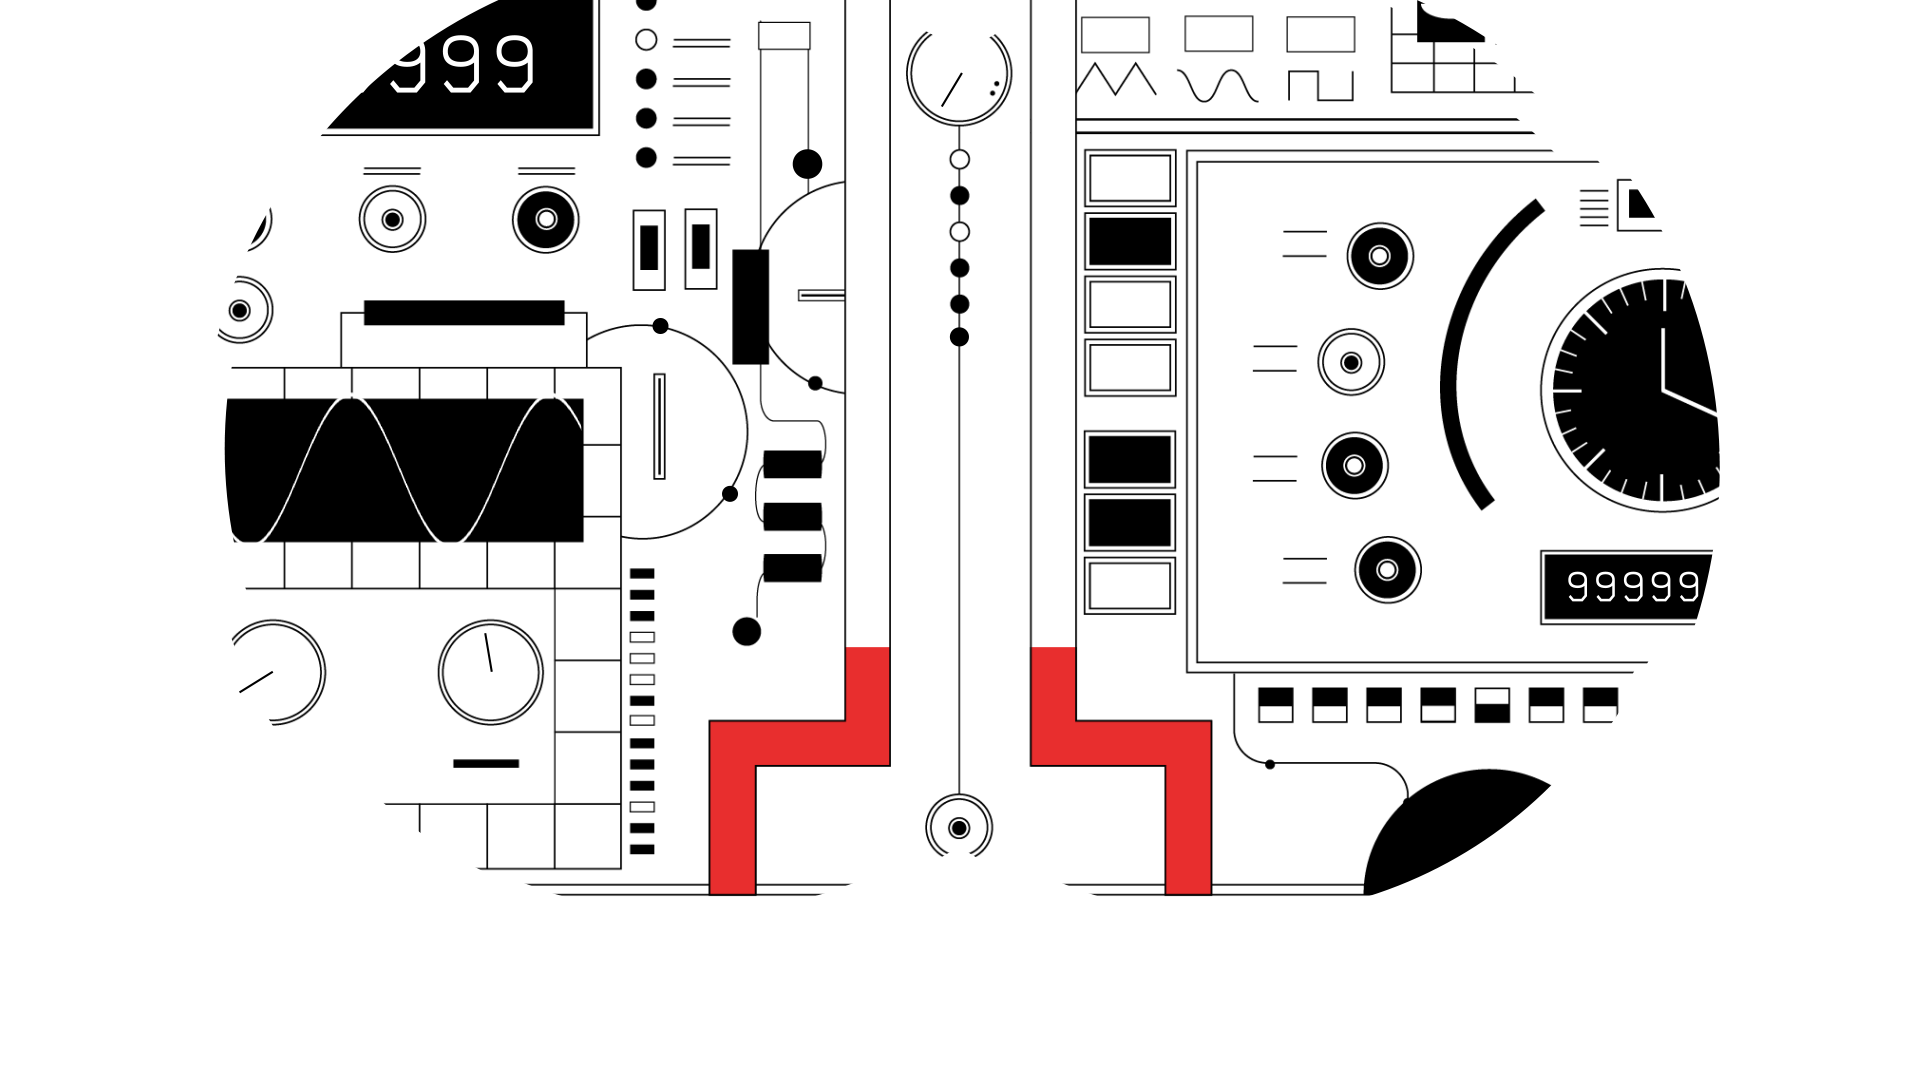
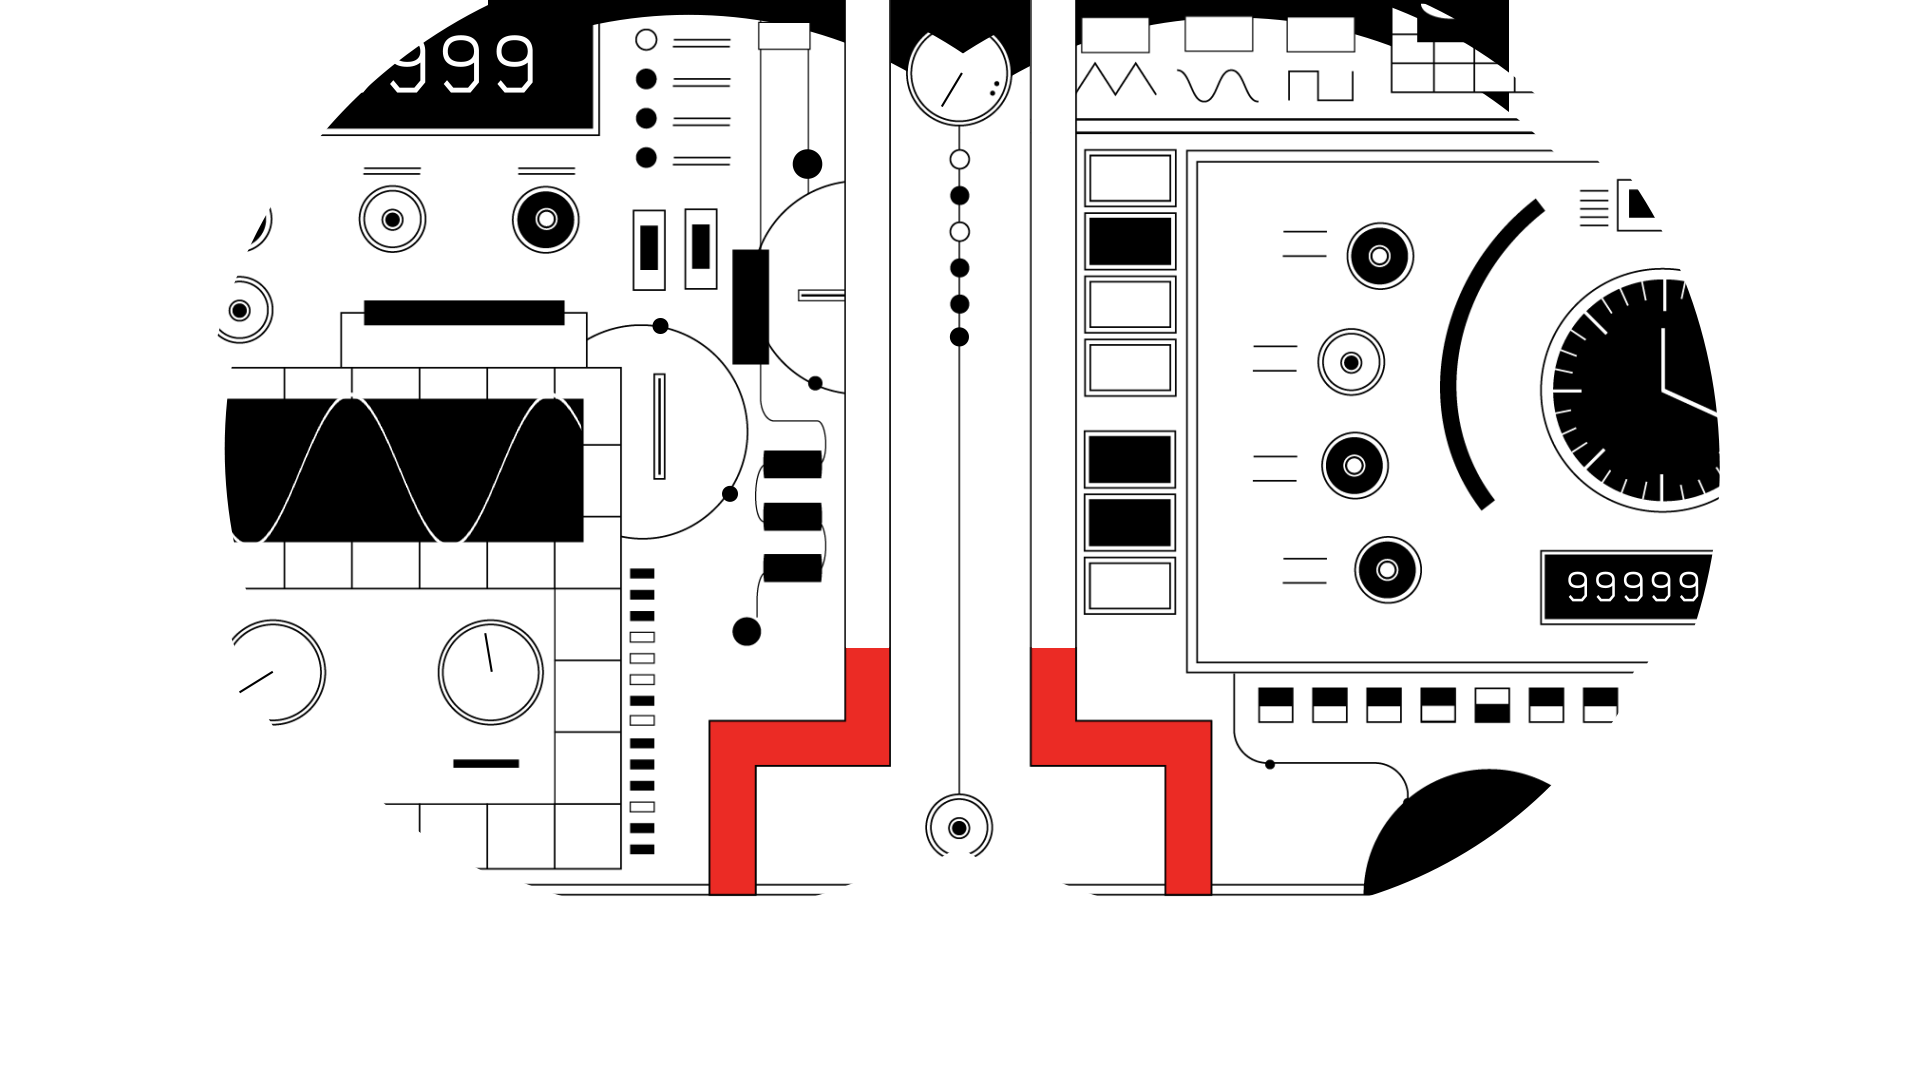
:sparkles: Generator slide feature

Changed region(s): [[0.3125, 0.0, 0.8125, 0.0611]]

diff --git a/client/src/desktop/components/scenes/SceneGenerator/SceneGenerator.js b/client/src/desktop/components/scenes/SceneGenerator/SceneGenerator.js
@@ -17,48 +17,97 @@ export default class SceneGenerator {
   updateStore(newStore) {
     this.currentPlayer1SliderValue = this.store.users.find(user => user.id === "player1").sliderValue
     this.newPlayer1SliderValue = newStore.users.find(user => user.id === "player1").sliderValue
-    console.log(this.newPlayer1SliderValue)
+
     if (this.newPlayer1SliderValue) {
       let value = parseInt(this.newPlayer1SliderValue, 10)
-      let mapValue  = map(value, 0, 100, 0, 469)
+      let mapValue  = map(value, 0, 100, 0, window.innerHeight * .6)
       TweenMax.to(this.fillbox, .1, {height:mapValue})
     }
+
+    this.currentPlayer2SliderValue = this.store.users.find(user => user.id === "player2").sliderValue
+    this.newPlayer2SliderValue = newStore.users.find(user => user.id === "player2").sliderValue
+
+    if (this.newPlayer2SliderValue) {
+      let value2 = parseInt(this.newPlayer2SliderValue, 10)
+      let mapValue2  = map(value2, 0, 100, 0, window.innerHeight * .6)
+      console.log(mapValue2)
+      TweenMax.to(this.fillbox2, .1, {height:mapValue2})
+    }
     //update store
-    console.log("updateStore", newStore)
     this.store = newStore
   }
 
   init() {
     console.log("scene generator init")
 
-    let width = window.innerWidth
-    let height = window.innerHeight
+    this.width = window.innerWidth
+    this.height = window.innerHeight
     this.container = new PIXI.Container()
     let generatorImg = AssetsManager.get('generator')
     let baseTexture = new PIXI.BaseTexture(generatorImg)
     let texture = new PIXI.Texture(baseTexture)
     this.generatorSprite = new PIXI.Sprite(texture)
-    this.generatorSprite.x = width / 2 - (this.generatorSprite.width / 2)
-    this.generatorSprite.y = height / 2 - (this.generatorSprite.height / 2)
+    
+    this.spriteSize = {
+      width:this.generatorSprite.width,
+      height: this.generatorSprite.height
+    }
+
     this.initFillBox()
+    this.initFillBox2()
+    this.initGenerator()
     this.addToScene()
-    this.initGUI()
-    this.brt = new PIXI.BaseRenderTexture(width, height, PIXI.SCALE_MODES.LINEAR, 1)
+    // this.initGUI()
+    this.brt = new PIXI.BaseRenderTexture(this.width, this.height, PIXI.SCALE_MODES.LINEAR, 1)
     this.rt = new PIXI.RenderTexture(this.brt)
     this.sprite = new PIXI.Sprite(this.rt)
+  }
+
+  initGenerator() {
+    this.generatorSprite.y = this.generatorSprite.height / 2
+    this.setFullScreen(this.generatorSprite, this.generatorSprite.width, this.generatorSprite.height)
+    this.generatorSprite.x = this.width / 2 - (this.generatorSprite.width / 2)
+    }
+
+  setFullScreen = (bg, w, h) => {
+    let width = window.innerWidth * .78
+    let height = window.innerHeight
+
+    let imageRatio = w / h
+    let containerRatio = width / height
+    if(containerRatio > imageRatio) {
+        bg.height = bg.height / (bg.width / width)
+        bg.width = width
+        bg.position.x = 0
+        bg.position.y = (height - bg.height) / 2
+    } else {
+        bg.width = bg.width / (bg.height / height)
+        bg.height = height
+        bg.position.y = 0
+        bg.position.x = (width - bg.width) / 2
+    }
   }
 
   initFillBox() {
     this.fillbox = new PIXI.Graphics()
     this.fillbox.beginFill(0xE82E2E)
-    this.fillbox.drawRect(0, 0, 43.8, 469)
+    this.fillbox.drawRect(0, 0, 140, 400)
     this.fillbox.endFill()
-    this.fillbox.x = 869
-    this.fillbox.y = 200
-
-    this.fillbox.scale.y = -1
+    this.fillbox.x = (window.innerWidth / 2) - 140
+    this.fillbox.y = window.innerHeight * .6
     this.fillbox.height = 0
+    this.fillbox.pivot.y = 400
+  }
 
+  initFillBox2() {
+    this.fillbox2 = new PIXI.Graphics()
+    this.fillbox2.beginFill(0xE82E2E)
+    this.fillbox2.drawRect(0, 0, 140, 400)
+    this.fillbox2.endFill()
+    this.fillbox2.x = (window.innerWidth / 2) 
+    this.fillbox2.y = window.innerHeight * .6
+    this.fillbox2.height = 0
+    this.fillbox2.pivot.y = 400
   }
 
   initGUI() {
@@ -66,31 +115,32 @@ export default class SceneGenerator {
     var customContainer = document.querySelector('.desktop-app')
     customContainer.appendChild(this.gui.domElement)
     const fillBoxPos = {
-      x: this.fillbox.x,
-      y: this.fillbox.y,
-      width: this.fillbox.width,
-      height: this.fillbox.height
+      x: this.fillbox2.x,
+      y: this.fillbox2.y,
+      width: this.fillbox2.width,
+      height: this.fillbox2.height
     }
 
     let fillBoxChanger = () => {
-        this.fillbox.x = fillBoxPos.x
-        this.fillbox.y = fillBoxPos.y
-        this.fillbox.width = fillBoxPos.width
-        this.fillbox.height = fillBoxPos.height
+        this.fillbox2.x = fillBoxPos.x
+        this.fillbox2.y = fillBoxPos.y
+        this.fillbox2.width = fillBoxPos.width
+        this.fillbox2.height = fillBoxPos.height
     }
 
     let f1 = this.gui.addFolder('Fill Box')
     f1.add(fillBoxPos, 'x', 0, 1920, 0.1).onChange(fillBoxChanger)
     f1.add(fillBoxPos, 'y', 0, 900, 0.1).onChange(fillBoxChanger)
     f1.add(fillBoxPos, 'width', 0, 200, 0.1).onChange(fillBoxChanger)
-    f1.add(fillBoxPos, 'height', 0, 200, 0.1).onChange(fillBoxChanger)
+    f1.add(fillBoxPos, 'height', 0, 2000, 0.1).onChange(fillBoxChanger)
 
     this.gui.close()
   }
 
   addToScene() {
-    this.container.addChild(this.generatorSprite)
     this.container.addChild(this.fillbox)
+    this.container.addChild(this.fillbox2)
+    this.container.addChild(this.generatorSprite)
   }
 
   update() {

diff --git a/client/src/desktop/components/scenes/SceneFlashlight/SceneFlashlight.js b/client/src/desktop/components/scenes/SceneFlashlight/SceneFlashlight.js
@@ -65,7 +65,8 @@ export default class SceneFlashlight {
     this.initBackgroundUser2()
     this.detectionBox()
     this.fillBox()
-    this.player2Collision = true
+    // this.player2Collision = true
+    this.player1Collision = true
     this.isDiscover = false
     this.addToScene()
     this.brt = new PIXI.BaseRenderTexture(this.sceneWH.width, this.sceneWH.height, PIXI.SCALE_MODES.LINEAR, 1)
@@ -78,9 +79,9 @@ export default class SceneFlashlight {
   switchOnLight() {
     this.canMove = false
     TweenMax.to(this.spriteFlashOff, .3, {alpha:0})
-    TweenMax.to(this.spriteBureau1, 1.2, {alpha:1, ease:RoughEase.ease.config({points:6, strength:5, clamp:true})})
-    TweenMax.to(this.spriteBureau2, 1.2, {alpha:1, ease:RoughEase.ease.config({points:6, strength:5, clamp:true})})
-    TweenMax.to(this.spriteBureau3, 1.2, {alpha:1, ease:RoughEase.ease.config({points:6, strength:5, clamp:true}), onComplete: () => {
+    TweenMax.to(this.spriteBureau1, .6, {alpha:1, ease:RoughEase.ease.config({points:6, strength:5, clamp:true})})
+    TweenMax.to(this.spriteBureau2, .6, {alpha:1, ease:RoughEase.ease.config({points:6, strength:5, clamp:true})})
+    TweenMax.to(this.spriteBureau3, .6, {alpha:1, ease:RoughEase.ease.config({points:6, strength:5, clamp:true}), onComplete: () => {
       this.canMove = true
     }})
     this.isOff = false
@@ -97,9 +98,9 @@ export default class SceneFlashlight {
 
   switchOnLight2() {
     TweenMax.to(this.spriteFlashOff_2, .3, {alpha:0})
-    TweenMax.to(this.spriteBureau1_2, 1.2, {alpha:1, ease:RoughEase.ease.config({points:6, strength:5, clamp:true})})
-    TweenMax.to(this.spriteBureau2_2, 1.2, {alpha:1, ease:RoughEase.ease.config({points:6, strength:5, clamp:true})})
-    TweenMax.to(this.spriteBureau3_2, 1.2, {alpha:1, ease:RoughEase.ease.config({points:6, strength:5, clamp:true}), onComplete: () => {
+    TweenMax.to(this.spriteBureau1_2, .6, {alpha:1, ease:RoughEase.ease.config({points:6, strength:5, clamp:true})})
+    TweenMax.to(this.spriteBureau2_2, .6, {alpha:1, ease:RoughEase.ease.config({points:6, strength:5, clamp:true})})
+    TweenMax.to(this.spriteBureau3_2, .6, {alpha:1, ease:RoughEase.ease.config({points:6, strength:5, clamp:true}), onComplete: () => {
       console.log('finito 2')
       this.canMove2 = true
     }})
@@ -443,30 +444,30 @@ export default class SceneFlashlight {
   }
 
   initGUI() {
-    this.gui = new dat.GUI({ autoPlace: false })
-    var customContainer = document.querySelector('.desktop-app')
-    customContainer.appendChild(this.gui.domElement)
-    const fillBoxPos = {
-      x: this.fillbox.x,
-      y: this.fillbox.y,
-      width: this.fillbox.width,
-      height: this.fillbox.height
-    }
+    // this.gui = new dat.GUI({ autoPlace: false })
+    // var customContainer = document.querySelector('.desktop-app')
+    // customContainer.appendChild(this.gui.domElement)
+    // const fillBoxPos = {
+    //   x: this.fillbox.x,
+    //   y: this.fillbox.y,
+    //   width: this.fillbox.width,
+    //   height: this.fillbox.height
+    // }
 
-    let fillBoxChanger = () => {
-        this.fillbox.x = fillBoxPos.x
-        this.fillbox.y = fillBoxPos.y
-        this.fillbox.width = fillBoxPos.width
-        this.fillbox.height = fillBoxPos.height
-    }
+    // let fillBoxChanger = () => {
+    //     this.fillbox.x = fillBoxPos.x
+    //     this.fillbox.y = fillBoxPos.y
+    //     this.fillbox.width = fillBoxPos.width
+    //     this.fillbox.height = fillBoxPos.height
+    // }
 
-    let f1 = this.gui.addFolder('Fill Box')
-    f1.add(fillBoxPos, 'x', 0, 1920, 0.1).onChange(fillBoxChanger)
-    f1.add(fillBoxPos, 'y', 0, 900, 0.1).onChange(fillBoxChanger)
-    f1.add(fillBoxPos, 'width', 0, 200, 0.1).onChange(fillBoxChanger)
-    f1.add(fillBoxPos, 'height', 0, 200, 0.1).onChange(fillBoxChanger)
+    // let f1 = this.gui.addFolder('Fill Box')
+    // f1.add(fillBoxPos, 'x', 0, 1920, 0.1).onChange(fillBoxChanger)
+    // f1.add(fillBoxPos, 'y', 0, 900, 0.1).onChange(fillBoxChanger)
+    // f1.add(fillBoxPos, 'width', 0, 200, 0.1).onChange(fillBoxChanger)
+    // f1.add(fillBoxPos, 'height', 0, 200, 0.1).onChange(fillBoxChanger)
 
-    this.gui.close()
+    // this.gui.close()
   }
   update() {
     // console.log("update scene flashlight");

diff --git a/client/src/desktop/components/scenes/SceneGenerator/transition.js b/client/src/desktop/components/scenes/SceneGenerator/transition.js
@@ -3,19 +3,27 @@ import {TweenMax, TimelineMax, Power2} from 'gsap'
 
 export const onEnter = (instance) => (
   new Promise(resolve => {
-    const timeline = new TimelineMax({
+    
+    const generator = instance.generatorSprite
+    generator.alpha = 0
+
+    const tl = new TimelineMax({
       onComplete: () => {
-        console.log("onComplete : scene2 enter");
-        resolve();
+        console.log("onComplete : scene generator enter")
+        resolve()
       }
     })
-    timeline.fromTo(instance.sprite, 3, {
+    tl.fromTo(instance.sprite, 1, {
       alpha: 0,
     },{
       delay: 1,
       alpha: 1,
       ease: Power2.easeInOut
     })
+    tl.to(generator, 0, {alpha:0}, "+=0.2")
+    tl.to(generator, 0, {alpha:1}, "+=0.2")
+    tl.to(generator, 0, {alpha:0}, "+=0.2")
+    tl.to(generator, 0, {alpha:1}, "+=0.2")
   })
 )
 

diff --git a/client/src/mobile/components/steps/IntroStep/IntroStep.js b/client/src/mobile/components/steps/IntroStep/IntroStep.js
@@ -15,8 +15,6 @@ import './IntroStep.scss'
 //asset
 import {AssetsManager} from "./../../../../managers"
 import {assetsToLoad} from "../../../assets/asset-list"
-// utils 
-import {toggleFullscreen} from '../../../../utils'
 
 class IntroStep extends Component {
 
@@ -37,7 +35,8 @@ class IntroStep extends Component {
   }
 
   setFullscreen = () => {
-    toggleFullscreen()
+      const elem = document.documentElement
+      elem.requestFullscreen()
   }
 
   setNoSleep = () => {
@@ -87,7 +86,7 @@ class IntroStep extends Component {
     this.gn = new GyroNorm();
 
     const args = {
-      frequency: 50,
+      frequency: 100,
       gravityNormalized: true,
       orientationBase: GyroNorm.GAME,
       decimalCount: 2,

diff --git a/client/src/desktop/assets/asset-list.js b/client/src/desktop/assets/asset-list.js
@@ -9,6 +9,7 @@ import bureau3 from './img/bureau_3.png'
 import outline from './img/lueurgenerateur.png'
 import flashoff from './img/flash-off.png'
 import generator from './img/generator.png'
+import generator2 from './img/generator-transparent.png'
 
 export const assetsToLoad = {
     bureau: { url: bureau },
@@ -21,4 +22,5 @@ export const assetsToLoad = {
     outline: { url: outline, name:'outline', type: 'image'},
     flashoff: { url: flashoff, name:'flashoff', type: 'image'},
     generator: { url: generator, name:'generator', type: 'image'},
+    generator2: { url: generator2, name:'generator2', type: 'image'},
 }

diff --git a/client/src/desktop/components/DesktopApp.js b/client/src/desktop/components/DesktopApp.js
@@ -8,7 +8,7 @@ import {setAppLoaded, setCurrentStep, setUserIndicationOpen} from '../redux/acti
 //assets
 import load from '../../vendors/assets-loader'
 import {assetsToLoad} from '../assets/asset-list'
-import {Loading} from "./components"
+import {Loading, Indication} from "./components"
 //steps
 import {StepManager} from "./managers";
 import steps from "./steps"

diff --git a/client/src/stylesheets/root.scss b/client/src/stylesheets/root.scss
@@ -28,3 +28,8 @@ code {
   font-family: source-code-pro, Menlo, Monaco, Consolas, "Courier New",
     monospace;
 }
+
+.dg {
+  position: fixed;
+  z-index: 2;
+}
